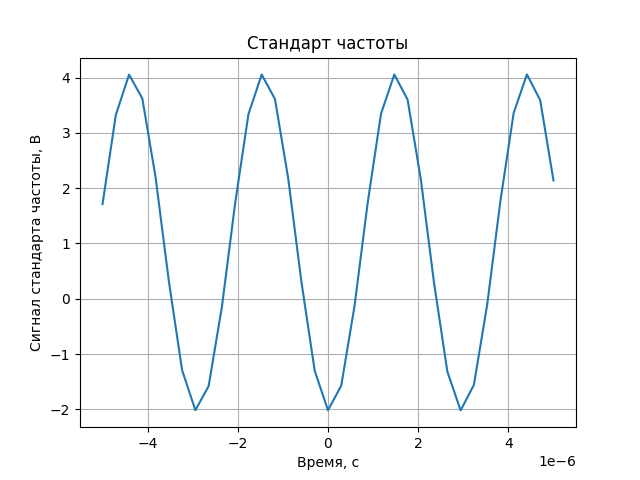
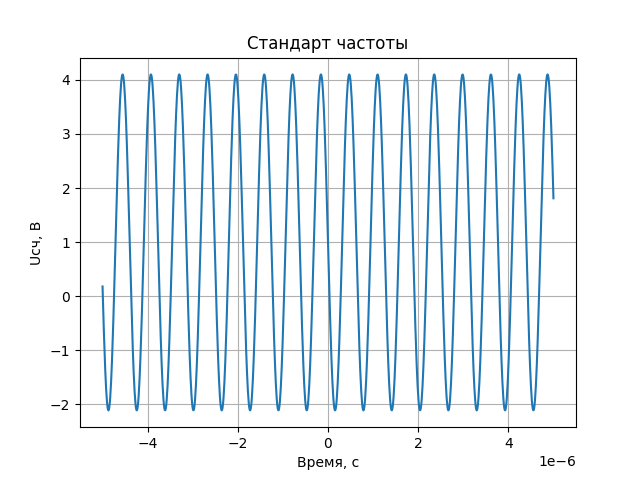
Изменил начальные условия

Changed region(s): [[0.0312, 0.1562, 0.9062, 0.875], [0.0625, 0.8438, 0.125, 0.875]]

diff --git a/approximation.py b/approximation.py
@@ -1,7 +1,7 @@
 import matplotlib.pyplot as plt
 import numpy as np
 from scipy.optimize import curve_fit
-from sinus_calc import u, graph_saw, graph
+from sinus_calc import u, graph_saw, graph, left, right
 from sinus_calc import u_params_calc
 
 
@@ -17,68 +17,61 @@ def sin_f(x, a, b, c, d):  # функция для аппроксимации с
     return 5 * a * np.sin(b * x + c) + d
 
 
-gs = graph_saw[0][495:530]  # массив значений пилы
-g = graph[0][495:530]  # массив значений сигнала
-saw_approx = np.linspace(min(gs), max(gs), 35)
-# U0 = u_params_calc(7, 8)[0]
-# Um = u_params_calc(7, 8)[1]
-# sinus = u(U0, Um)  # вычисленный синус
-# sinus2 = u(U0, Um)[365:400]  # кусок синуса для выходного сигнала
-time = np.linspace(-5 * 10e-7, 5 * 10e-7, 35)  # время для куска синуса
+gs = graph_saw[left][495:530]  # массив значений пилы
+g = graph[left][495:530]  # массив значений сигнала
+saw_approx = np.linspace(min(gs), max(gs), 1000)
 time_for_sin = np.linspace(-5 * 10e-7, 5 * 10e-7, 1000)  # время для аппроксимированного синуса
 
 
 def g_gs_approx(l_border: int, r_border: int) -> tuple:
-    popt, pcov = curve_fit(logarithmic_f, gs, g, p0=[1000, -1000, -0.000001])
+
+    popt, pcov = curve_fit(logarithmic_f, gs, g, p0=[1000, -100, -0.00001])
 
     a_opt, b_opt, c_opt = popt
 
     u0 = u_params_calc(l_border, r_border)[0]
     um = u_params_calc(l_border, r_border)[1]
     sinus = u(u0, um)  # вычисленный синус
-    sinus2 = u(u0, um)[373:408]  # кусок синуса для выходного сигнала
 
     uf_approx = logarithmic_f(saw_approx, a_opt, b_opt, c_opt)  # аппроксимация зависимости сигнала от пилы
-    uf_approx_sinus = logarithmic_f(sinus2, a_opt, b_opt, c_opt)  # аппроксимация выходного сигнала
+    uf_approx_sinus = logarithmic_f(sinus, a_opt, b_opt, c_opt)  # аппроксимация выходного сигнала
 
-    return uf_approx, uf_approx_sinus, sinus2
-
-
-def uf_func(l_border: int, r_border: int) -> tuple:
-    uf_approx = g_gs_approx(l_border, r_border)[0]
-    uf_approx_sinus = g_gs_approx(l_border, r_border)[1]
-
-    x_value = np.array([i for i in range(len(uf_approx_sinus))])  # массив точек для аппроксимации
-
-    params, params_covariance = curve_fit(sin_f, x_value, uf_approx_sinus)
-
-    a, b, c, d = params
-
-    x_smooth = np.linspace(0, len(uf_approx_sinus) - 1, 1000)  # массив точек для гладкой аппроксимации
-    uf = sin_f(x_smooth, a, b, c, d)  # гладкая аппроксимация выходного сигнала
-
-    # for i in range(len(uf)):
-    #     uf[i] = uf[i] * 0.98
-
-    return uf, c
+    return uf_approx, uf_approx_sinus, sinus
 
 
-Uf_approx = g_gs_approx(7, 8)[0]
-Uf_approx_sinus = g_gs_approx(7, 8)[1]
-U_signal = g_gs_approx(7, 8)[2]
-Uf = uf_func(7, 8)[0]
+# def uf_func(l_border: int, r_border: int) -> tuple:
+#
+#     uf_approx_sinus = g_gs_approx(l_border, r_border)[1]
+#
+#     x_value = np.array([i for i in range(len(uf_approx_sinus))])  # массив точек для аппроксимации
+#
+#     params, params_covariance = curve_fit(sin_f, x_value, uf_approx_sinus)
+#
+#     a, b, c, d = params
+#
+#     x_smooth = np.linspace(0, len(uf_approx_sinus) - 1, 1000)  # массив точек для гладкой аппроксимации
+#     uf = sin_f(x_smooth, a, b, c, d)  # гладкая аппроксимация выходного сигнала
+#
+#     # for i in range(len(uf)):
+#     #     uf[i] = uf[i] * 0.98
+#
+#     return uf, c
+
+
+Uf_approx = g_gs_approx(left, right)[0]
+Uf_approx_sinus = g_gs_approx(left, right)[1]
+U_signal = g_gs_approx(left, right)[2]
 
 
 # plt.figure()
-# plt.title('Выходной сигнал с увеличенной дискретизацией')
-# plt.ylabel('Выходной сигнал, В')
+# plt.title('Сигнал стандарта частоты после модулятора')
+# plt.ylabel('Uфп, В')
 # plt.xlabel('Время, с')
 # plt.grid(True)
-# plt.scatter(gs, g, label='Зависимость входного от пилообразного сигнала') # точки зависимости сигнала от пилы
+# plt.scatter(gs, g, label='Зависимость Uфп от Uп')  # точки зависимости сигнала от пилы
 # plt.plot(saw_approx, Uf_approx, color="r",
 #          label='Аппроксимация логарифмом')  # аппроксимация зависимости сигнала от пилы
-# plt.plot(time, Uf_approx_sinus)  # зависимость аппроксимированного сигнала фотоприемника от времени синусоиды
-# plt.plot(time, U_signal)  # выходной сигнал
-# plt.plot(time_for_sin[200:800], Uf[200:800])  # гладкий выходной сигнал
+# plt.plot(time_for_sin, Uf_approx_sinus)  # зависимость аппроксимированного сигнала фотоприемника от времени синусоиды
+# plt.plot(time_for_sin, U_signal)  # выходной сигнал
 # plt.legend()
 # plt.show()

diff --git a/frequency_calculation/freq.py b/frequency_calculation/freq.py
@@ -1,41 +1,52 @@
 import numpy as np
-from approximation import Uf
+from approximation import Uf_approx_sinus
+
+time_for_sin = np.linspace(-5*10e-7, 5*10e-7, 1000)
 
 
-time_for_sin = np.linspace(-5*10e-7, 5*10e-7, 870)
+def freq(uf_appr: list[float]) -> float:
 
-
-def frequency_calculation(time_for_func: list[float], uf) -> float:
+    min_list = []
+    max_list = []
     time_min = []
     time_max = []
-    period_max = []
     period_min = []
+    period_max = []
 
-    for i in range(len(time_for_func)):
-        if uf[i] > -6.9:
-            time_max.append(time_for_func[i])
+    count = uf_appr[0]
 
-    for j in range(len(time_for_func)):
-        if uf[j] < -9.7:
-            time_min.append(time_for_func[j])
+    for i in range(1, len(uf_appr)):
 
-    for g in range(0, 110):
-        time_max_calc = abs(time_max[g] - time_max[g+1])
+        if count > uf_appr[i]:
+            count = uf_appr[i]
+
+        elif uf_appr[i-2] > count < uf_appr[i+2]:
+            min_list.append(count)
+            time_min.append(time_for_sin[i])
+
+        elif count < uf_appr[i+1]:
+            count = uf_appr[i+1]
+
+        else:
+            max_list.append(count)
+            time_max.append(time_for_sin[i])
+
+    for g in range(len(time_max) - 1):
+        time_max_calc = abs(time_max[g] - time_max[g + 1])
         period_max.append(time_max_calc)
 
-    for h in range(0, 110):
-        time_min_calc = abs(time_min[h] - time_min[h+1])
+    for h in range(len(time_min) - 1):
+        time_min_calc = abs(time_min[h] - time_min[h + 1])
         period_min.append(time_min_calc)
 
-    period_max_aver = sum(period_max)/111
-    period_min_aver = sum(period_min)/111
-    period_fin = (period_max_aver+period_min_aver)/2
+    period_max_aver = sum(period_max) / len(period_max)
+    period_min_aver = sum(period_min) / len(period_min)
+    period_fin = (period_max_aver + period_min_aver) / 2
 
-    func_frequency = (2*np.pi)/period_fin
+    func_frequency = (2 * np.pi) / period_fin
 
     return func_frequency
 
 
-frequency = frequency_calculation(time_for_sin, Uf)
-
+freq = freq(Uf_approx_sinus)
 

diff --git a/fourier/fourier_fft.py b/fourier/fourier_fft.py
@@ -1,11 +1,12 @@
 import numpy as np
 from numpy.fft import fftshift, rfft, irfft
 from scipy.fft import fft, fftfreq, ifft
-from approximation import uf_func
-# from frequency_calculation.freq import frequency
 import cmath as cm
 import matplotlib.pyplot as plt
-from frequency_calculation.freq_for_smooth import frequency_for_smooth
+
+from approximation import Uf_approx_sinus
+from frequency_calculation.freq import freq
+from sinus_calc import left, right
 
 fourier_transform = []  # Список значений преобразований Фурье
 
@@ -16,12 +17,14 @@ def fourier_func(f, y_f: list[float], time: list[float]) -> list[float]:
 
 
 time_for_sin = np.linspace(-5*10e-7, 5*10e-7, 1000)
-Uf = (uf_func(7, 8))[0]
 dot_value = 1000
-yf = fft(uf_func(7, 8)[0])
+yf = fft(Uf_approx_sinus)
+# yf = np.array(yf)
+# yf = np.roll(yf, 800)
 # yf = fftshift(yf)
 # print(np.abs(yf))
-xf = fftfreq(dot_value, 1 / frequency_for_smooth)
+xf = fftfreq(dot_value, 1 / freq)
+
 
 # plt.plot(xf, np.abs(yf))
 # for i in range(len(yf)):
@@ -51,11 +54,11 @@ clear_sig = ifft(yf)
 
 # Проверка после фильтрации
 
-# yf1 = fft(clear_sig)
-# xf1 = fftfreq(dot_value, 1 / frequency)
+yf1 = fft(clear_sig)
+xf1 = fftfreq(dot_value, 1 / freq)
 
 plt.title('Очищенный сигнал')
-plt.ylabel('Напряжение, В')
+plt.ylabel('Uфп, В')
 plt.xlabel('Время, с')
 plt.grid(True)
 # plt.plot(xf1, np.abs(yf1))

diff --git a/max_min_find.py b/max_min_find.py
@@ -1,6 +1,7 @@
 from approximation import uf_func
+from sinus_calc import left, right
 
-Uf = uf_func(7, 8)[0]
+Uf = uf_func(left, right)[0]
 
 
 def max_min_find(uf: list[float]):
